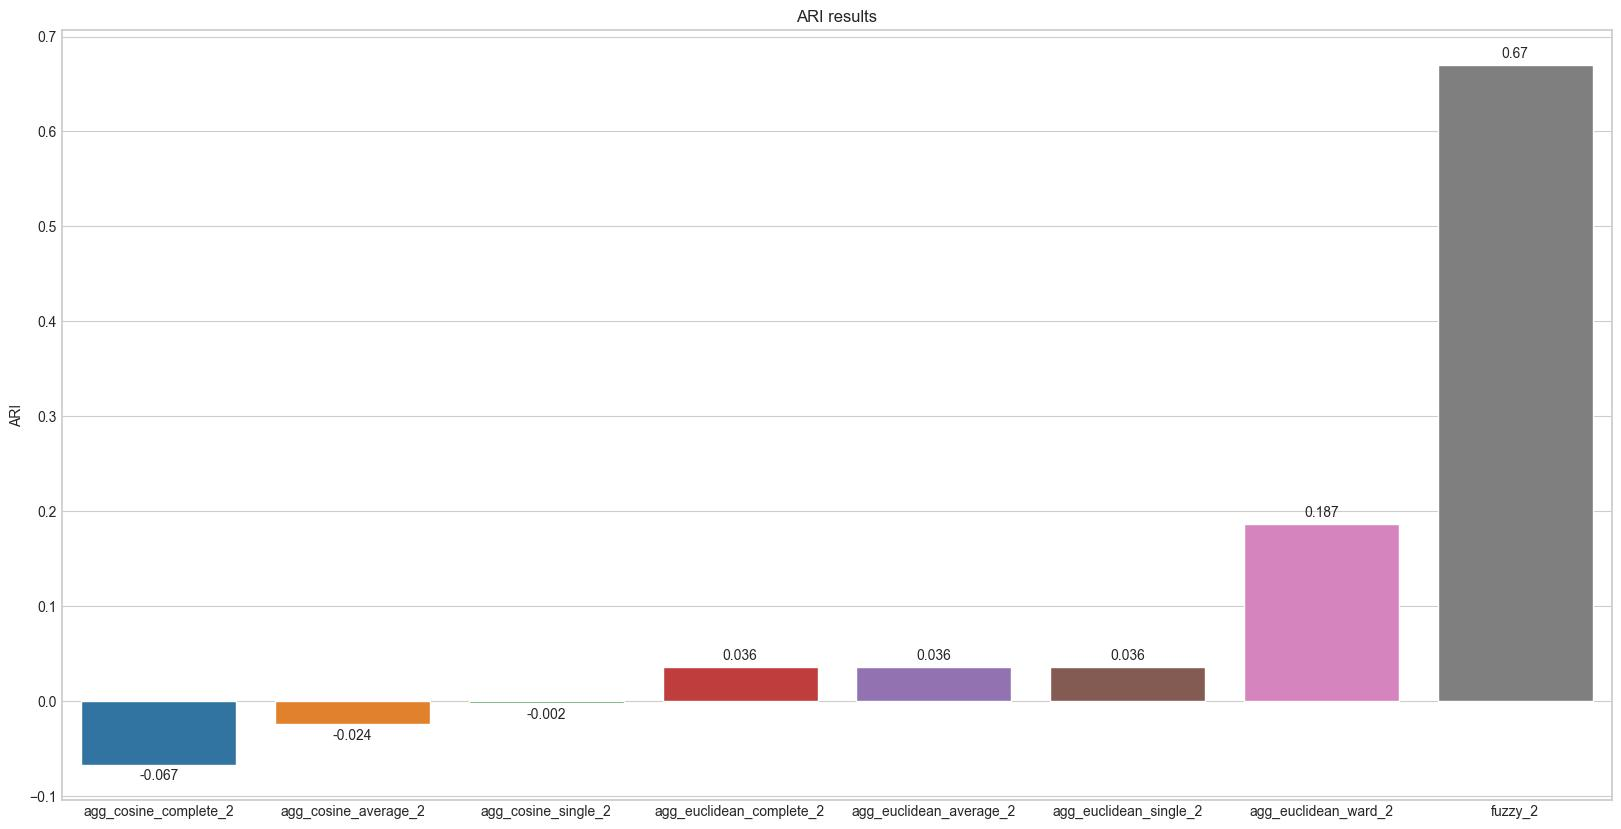
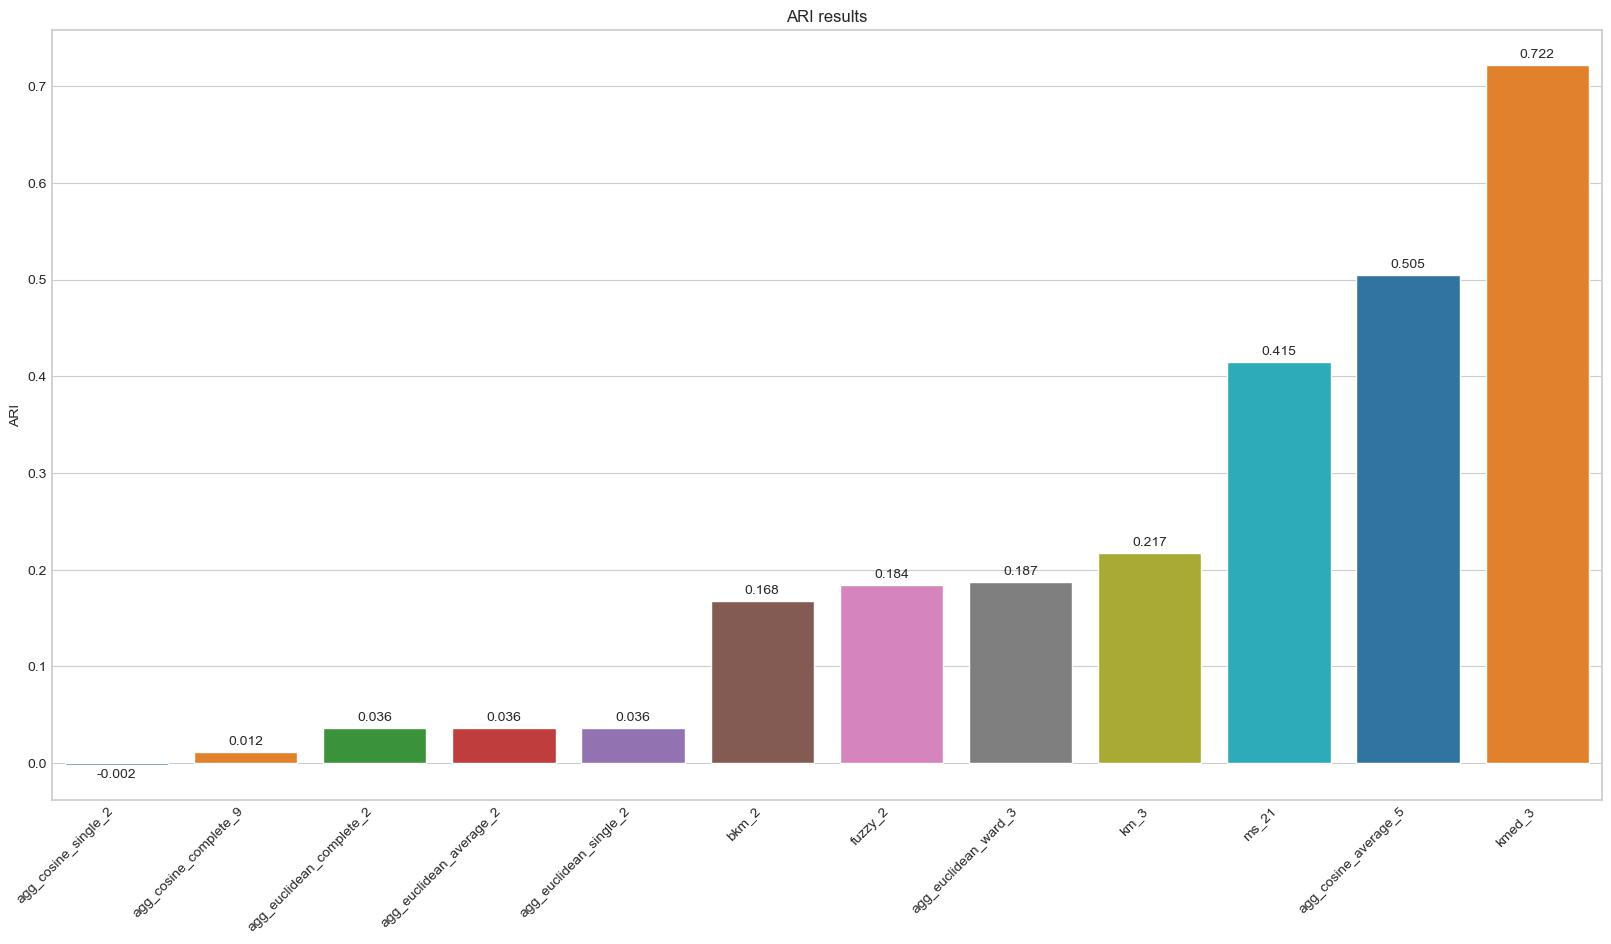
minor changes

diff --git a/main.py b/main.py
@@ -1,6 +1,6 @@
 import argparse
 from datasets import preprocess_vote, preprocess_adult, preprocess_iris, preprocess_cmc, preprocess_hypothyroid
-from evaluation import evaluate_clustering_number, cluster_tendency, clusterElection_plot, ari_plot
+from evaluation import evaluate_clustering_number, cluster_tendency, clusterElection_plot, ari_plot, dbi_sc_ari_plot
 from sklearn.cluster import AgglomerativeClustering, MeanShift
 from visualize import bar_plot_vote, coordinate_plot, coordinate_plot_by_cluster, anova, chi2, confusion_matrix_compute
 import pandas as pd
@@ -45,14 +45,23 @@ def main():
         if config['dataset'] == 'vote':
             ari_plot(config, {'fuzzy':2,'agg_euclidean_ward':2,'agg_euclidean_complete':2, 'agg_euclidean_average':2,
                               'agg_euclidean_single':3, 'agg_cosine_complete':2, 'agg_cosine_average':2, 'agg_cosine_single':3, 'bkm':2, 'km':2, 'kmed':2, 'ms':2})
+            dbi_sc_ari_plot(config, {'fuzzy':2,'agg_euclidean_ward':2,'agg_euclidean_complete':2, 'agg_euclidean_average':2,
+                              'agg_euclidean_single':3, 'agg_cosine_complete':2, 'agg_cosine_average':2, 'agg_cosine_single':3, 'bkm':2, 'km':2, 'kmed':2, 'ms':2})
+
         if config['dataset'] == 'hyp':
-            ari_plot(config, {'fuzzy': 2, 'agg_euclidean_ward': 2, 'agg_euclidean_complete': 2, 'agg_euclidean_average': 2,
-                              'agg_euclidean_single': 2, 'agg_cosine_complete': 2, 'agg_cosine_average': 2,
-                              'agg_cosine_single': 2, 'bkm':2, 'km':2, 'kmed':2})
+            ari_plot(config, {'km': 3, 'bkm': 2, 'kmed': 3, 'agg_euclidean_ward': 3, 'fuzzy':2,
+                              'agg_euclidean_complete': 2, 'agg_euclidean_average': 2, 'agg_euclidean_single': 2,
+                              'agg_cosine_complete': 9, 'agg_cosine_average': 5, 'agg_cosine_single':2, 'ms':21})
+            dbi_sc_ari_plot(config, {'km': 3, 'bkm': 2, 'kmed': 3, 'agg_euclidean_ward': 3, 'fuzzy':2,
+                              'agg_euclidean_complete': 2, 'agg_euclidean_average': 2, 'agg_euclidean_single': 2,
+                              'agg_cosine_complete': 9, 'agg_cosine_average': 5, 'agg_cosine_single':2, 'ms':21})
         if config['dataset'] == 'iris':
-            ari_plot(config, {'fuzzy': 2, 'agg_euclidean_ward': 2, 'agg_euclidean_complete': 2, 'agg_euclidean_average': 2,
+            ari_plot(config, {'fuzzy': 2, 'agg_euclidean_ward': 2, 'agg_euclidean_complete': 3, 'agg_euclidean_average': 2,
                               'agg_euclidean_single': 2, 'agg_cosine_complete': 2, 'agg_cosine_average': 2,
-                              'agg_cosine_single': 3, 'bkm':2, 'km':2, 'kmed':2})
+                              'agg_cosine_single': 3, 'bkm':2, 'km':2, 'kmed':2, 'ms': 2})
+            dbi_sc_ari_plot(config, {'fuzzy': 2, 'agg_euclidean_ward': 2, 'agg_euclidean_complete': 3, 'agg_euclidean_average': 2,
+                              'agg_euclidean_single': 2, 'agg_cosine_complete': 2, 'agg_cosine_average': 2,
+                              'agg_cosine_single': 3, 'bkm':2, 'km':2, 'kmed':2, 'ms': 2})
         return
 
     if config['dataset'] == 'vote':
@@ -121,10 +130,9 @@ def main():
 
         if config['dataset'] == 'iris':
             confusion_matrix_compute(labels, Y, output='./plots/iris/')
-            columns_to_plot = [ 'standardscaler__petalwidth', 'standardscaler__petallength',
-                                'standardscaler__sepalwidth', 'standardscaler__sepallength']
-            #coordinate_plot(X.copy(), Y.copy(), labels, columns_to_plot, output='./plots/iris/')
-            #coordinate_plot_by_cluster(X.copy(), Y.copy(), labels, columns_to_plot, output='./plots/iris/')
+            columns_to_plot = [ 'petalwidth', 'petallength', 'sepalwidth', 'sepallength']
+            coordinate_plot(X.copy(), Y.copy(), labels, columns_to_plot, output='./plots/iris/')
+            coordinate_plot_by_cluster(X.copy(), Y.copy(), labels, columns_to_plot, output='./plots/iris/')
             anova(X.copy(), labels, columns_to_plot, output = './results/iris_')
 
 if __name__ == '__main__':

diff --git a/evaluation.py b/evaluation.py
@@ -294,3 +294,37 @@ def ari_plot(config, n_clust_alg_dict):
 
     output = './plots/{}/ari.jpg'.format(config['dataset'])
     plt.savefig(output, bbox_inches='tight')
+
+
+def dbi_sc_ari_plot(config, n_clust_alg_dict):
+    """
+    Given the name of the dataset,
+    this function plots a multiple line plot for each algorithm result.
+
+    :param config: config dict
+    :param n_clust_alg_dict: number of clusters selected per algorithm
+    """
+    path_dataset = {"vote": './results/vote.csv', "hyp": './results/hyp.csv', "iris": './results/iris.csv'}
+    X = pd.read_csv(path_dataset[config['dataset']])
+
+    X["algorithm"] = X["clusteringAlg"] + "_" + X["affinity"] + "_" + X["linkage"] + "_" + X['Number of clusters'].astype(str)
+    X["algorithm"] = X["algorithm"].apply(lambda x: x.replace('_None_None', ''))
+
+    colors = ['#689F38', '#039BE5', '#FF6F00', '#F44336', '#26C6DA', '#FFC107', '#E91E63']
+    filter_algs = ['{}_{}'.format(k, v) for k, v in n_clust_alg_dict.items()]
+    X = X.loc[X['algorithm'].isin(filter_algs)]
+    X_melt = pd.melt(X, id_vars=["algorithm"], value_vars=["ari", "sil", "dbs"], var_name="metrics")
+    X_melt = X_melt.sort_values('value')
+
+    sns.set_style("whitegrid")
+    fig, ax = plt.subplots(figsize=(20, 10))
+    sns.barplot(data=X_melt, x="algorithm", y="value", hue = "metrics", orient='v', palette = 'tab10', hue_order = ['dbs', 'sil', 'ari']).set(title="ARI, DBI and SC results")
+    ax.bar_label(ax.containers[0], padding=3)
+    ax.bar_label(ax.containers[1], padding=3)
+    ax.bar_label(ax.containers[2], padding=3)
+    ax.set_ylabel('ARI, DBI and SC')
+    ax.set_xlabel('')
+    plt.xticks(rotation=45)
+
+    output = './plots/{}/dbi_sc_ari.jpg'.format(config['dataset'])
+    plt.savefig(output, bbox_inches='tight')

diff --git a/visualize.py b/visualize.py
@@ -108,7 +108,7 @@ def coordinate_plot(X, Y, labels, columns_to_plot, output, rename_target=None):
         X['Target'] = X['Target'].replace(rename_target)
     X['Cluster'] = labels
     fig = plt.figure(figsize=(20, 10))
-    parallel_coordinates(X, 'Target', cols = ['Cluster'] + columns_to_plot)
+    parallel_coordinates(X, 'Target', cols = ['Cluster'] + columns_to_plot )
     plt.savefig(output + 'parallel_coords.jpg', bbox_inches='tight')
 
 
@@ -132,11 +132,16 @@ def coordinate_plot_by_cluster(X, Y, labels, columns_to_plot, output, rename_tar
     X['Cluster'] = labels
     max_value = max(max(X[columns_to_plot[i]]) for i in range(len(columns_to_plot)))
     min_value = min(min(X[columns_to_plot[i]]) for i in range(len(columns_to_plot)))
+    # iris-setosa, iris-versicolor, iris-virginica
+    colors = [ ['#388E3C', '#1E88E5'], ['#EF6C00'], ['#EF6C00', '#388E3C', '#1E88E5'] ]
+    plt.rcParams.update({'font.size': 34})
     for cluster in X.Cluster.unique():
         X_c = X.loc[X['Cluster'] == cluster]
-        fig = plt.figure(figsize=(20, 10))
-        parallel_coordinates(X_c, 'Target', cols = columns_to_plot)
+        fig = plt.figure(figsize=(15, 10))
+        parallel_coordinates(X_c, 'Target', cols = columns_to_plot, color = colors[cluster])
         plt.title('Cluster: {}'.format(cluster))
+        plt.xticks(rotation=90)
+        plt.legend(loc='upper left')
         plt.ylim(max_value, min_value)
         plt.savefig(output + 'parallel_coords_cluster_{}.jpg'.format(cluster), bbox_inches='tight')
 

diff --git a/algorithms.py b/algorithms.py
@@ -146,6 +146,7 @@ class KMedians():
         x = np.array(x, dtype=np.float32)
         k = self.n_clusters
         n = np.size(x, 0)
+        np.random.seed(155)
         cluster_centers = x[np.random.choice(range(0, n), k, False)]
         clusters = np.empty((k, 0))
         old_clusters = []
